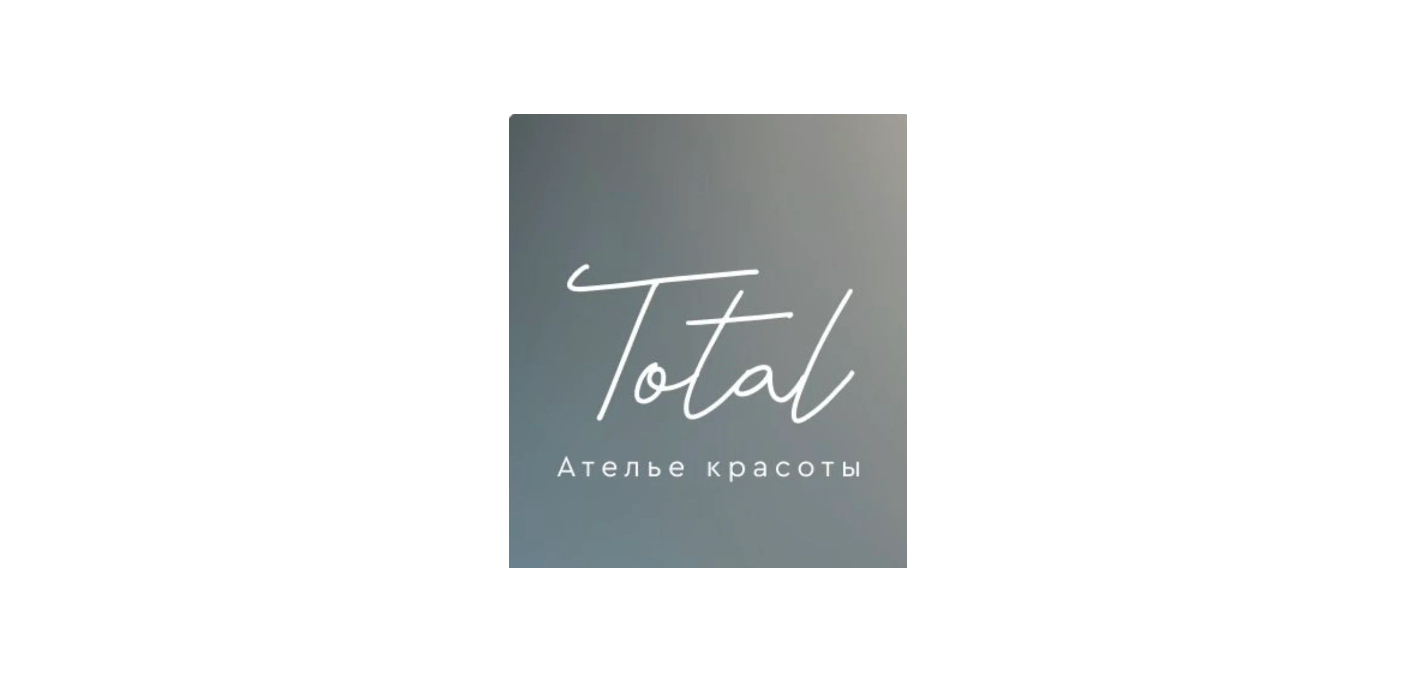
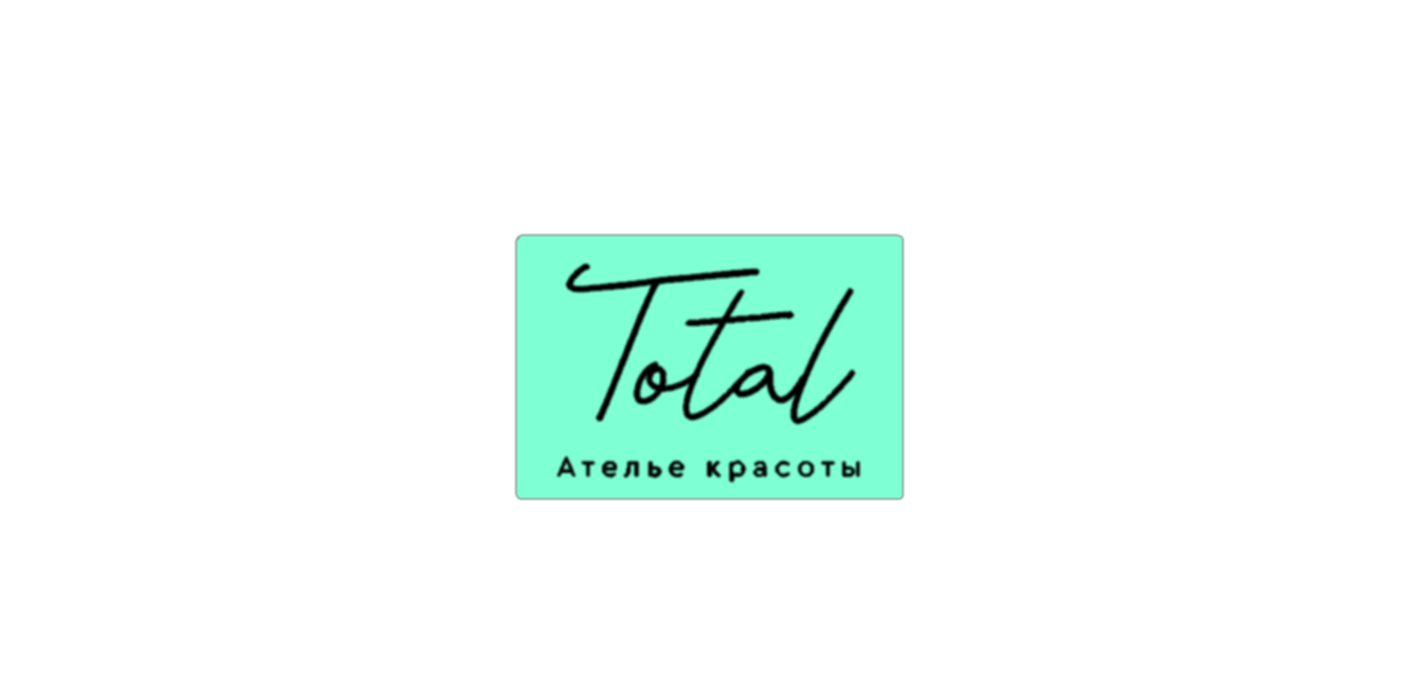
DataContext, Material desing

Changed region(s): [[0.3418, 0.154, 0.6525, 0.8314]]

diff --git a/MVVM/View/MainWindow.xaml b/MVVM/View/MainWindow.xaml
@@ -2,103 +2,108 @@
     x:Class="TotalApp.MVVM.View.MainWindow"
     xmlns="http://schemas.microsoft.com/winfx/2006/xaml/presentation"
     xmlns:x="http://schemas.microsoft.com/winfx/2006/xaml"
+    xmlns:c1="http://schemas.componentone.com/winfx/2006/xaml"
+    xmlns:cmd="clr-namespace:TotalApp.Infrastructure.Commands.ButtonCommand"
     xmlns:d="http://schemas.microsoft.com/expression/blend/2008"
     xmlns:local="clr-namespace:TotalApp"
     xmlns:materialDesign="http://materialdesigninxaml.net/winfx/xaml/themes"
     xmlns:mc="http://schemas.openxmlformats.org/markup-compatibility/2006"
     xmlns:st="clr-namespace:TotalApp.Resource.Dict"
+    xmlns:vm="clr-namespace:TotalApp.MVVM.ViewModel"
     Width="1300"
+    Height="800"
     AllowsTransparency="True"
     Background="{x:Null}"
     ResizeMode="NoResize"
     WindowStartupLocation="CenterScreen"
     WindowStyle="None">
 
+    <Window.DataContext>
+        <vm:MainViewModel />
+    </Window.DataContext>
+
     <Window.Resources>
         <ResourceDictionary Source="/Resource/Dict.xaml" />
     </Window.Resources>
 
-    <Grid Style="{DynamicResource MaterialDesignGrid}">
-        <materialDesign:Card Margin="10" UniformCornerRadius="15">
+    <Grid Background="{x:Null}" Style="{DynamicResource MaterialDesignGrid}">
+        <materialDesign:Card
+            Margin="10"
+            Background="{x:Null}"
+            UniformCornerRadius="15">
             <Grid>
                 <Grid.ColumnDefinitions>
-                    <ColumnDefinition Width="1*" />
+                    <ColumnDefinition Width="100" />
                     <ColumnDefinition Width="15*" />
                 </Grid.ColumnDefinitions>
+                <Grid.RowDefinitions>
+                    <RowDefinition Height="25" />
+                    <RowDefinition />
+
+                </Grid.RowDefinitions>
                 <Grid.Resources>
                     <Style TargetType="materialDesign:PackIcon">
-                        <Setter Property="Width" Value="30" />
-                        <Setter Property="Height" Value="30" />
+                        <Setter Property="Width" Value="40" />
+                        <Setter Property="Height" Value="40" />
                     </Style>
                 </Grid.Resources>
-                <Grid Grid.Column="0">
-                    <ListView Margin="0,15">
+
+                <TextBlock
+                    Grid.Row="0"
+                    Grid.Column="0"
+                    Grid.ColumnSpan="2"
+                    Background="#FF3EEDB2"
+                    FontFamily="Segoe UI Historic"
+                    FontSize="18"
+                    Text="Total"
+                    TextAlignment="Center" />
+
+                <Grid
+                    Grid.Row="1"
+                    Grid.Column="0"
+                    Background="Aquamarine">
+                    <ListView
+                        Margin="0"
+                        VerticalAlignment="Bottom"
+                        HorizontalContentAlignment="Stretch"
+                        VerticalContentAlignment="Stretch">
+
+
                         <ListViewItem Margin="0,10" HorizontalAlignment="Center">
                             <Button
                                 HorizontalAlignment="Left"
-                                Background="{x:Null}"
+                                Background="#FF3EEDB2"
                                 BorderBrush="{x:Null}"
                                 Foreground="Black"
-                                Style="{StaticResource MaterialDesignFloatingActionButton}">
-                                <StackPanel Margin="-5">
-                                    <materialDesign:PackIcon Kind="Resistor" />
-                                </StackPanel>
+                                Style="{StaticResource MaterialDesignFloatingActionButton}"
+                                ToolTip="Краски">
+                                <Button.Content>
+                                    <StackPanel Margin="-5">
+                                        <materialDesign:PackIcon
+                                            HorizontalAlignment="Center"
+                                            VerticalAlignment="Center"
+                                            HorizontalContentAlignment="Center"
+                                            VerticalContentAlignment="Center"
+                                            Kind="FormatColorFill" />
+                                    </StackPanel>
+                                </Button.Content>
+
                             </Button>
                         </ListViewItem>
-                        <ListViewItem Margin="0" HorizontalAlignment="Center">
-                            <Button
-                                HorizontalAlignment="Left"
-                                Background="{x:Null}"
-                                BorderBrush="{x:Null}"
-                                Foreground="Black"
-                                Style="{StaticResource MaterialDesignFloatingActionButton}">
-                                <StackPanel Margin="-5">
-                                    <materialDesign:PackIcon Kind="CircleSlice6" />
-                                </StackPanel>
-                            </Button>
-                        </ListViewItem>
-                        <ListViewItem Margin="0,10" HorizontalAlignment="Center">
-                            <Button
-                                HorizontalAlignment="Left"
-                                Background="{x:Null}"
-                                BorderBrush="{x:Null}"
-                                Foreground="Black"
-                                Style="{StaticResource MaterialDesignFloatingActionButton}">
-                                <StackPanel Margin="-5">
-                                    <materialDesign:PackIcon Kind="CalendarBlankOutline" />
-                                </StackPanel>
-                            </Button>
-                        </ListViewItem>
-                        <ListViewItem Margin="0" HorizontalAlignment="Center">
-                            <Button
-                                HorizontalAlignment="Left"
-                                Background="{x:Null}"
-                                BorderBrush="{x:Null}"
-                                Foreground="Black"
-                                Style="{StaticResource MaterialDesignFloatingActionButton}">
-                                <StackPanel Margin="-5">
-                                    <materialDesign:PackIcon Kind="EqualiserVertical" />
-                                </StackPanel>
-                            </Button>
-                        </ListViewItem>
-                        <ListViewItem Margin="0,10" HorizontalAlignment="Center">
-                            <Button
-                                HorizontalAlignment="Left"
-                                Background="{x:Null}"
-                                BorderBrush="{x:Null}"
-                                Foreground="Black"
-                                Style="{StaticResource MaterialDesignFloatingActionButton}">
-                                <StackPanel Margin="-5">
-                                    <materialDesign:PackIcon Kind="ChatOutline" />
-                                </StackPanel>
-                            </Button>
-                        </ListViewItem>
-                        <ListViewItem Margin="0,60,0,0" HorizontalAlignment="Center">
+
+                        <ListViewItem
+                            Margin="0,175,0,0"
+                            HorizontalAlignment="Center"
+                            VerticalAlignment="Top"
+                            HorizontalContentAlignment="Center"
+                            VerticalContentAlignment="Top"
+                            ToolTip="Выход">
                             <Button
                                 x:Name="btnExit"
                                 HorizontalAlignment="Left"
-                                Background="{x:Null}"
+                                Background="#FF3EEDB2"
                                 BorderBrush="{x:Null}"
+                                Command="{Binding cmd.CloseCommand}"
                                 Foreground="Black"
                                 Style="{StaticResource MaterialDesignFloatingActionButton}">
                                 <StackPanel Margin="-5">
@@ -110,8 +115,35 @@
                 </Grid>
                 <Grid
                     Name="RenderPages"
+                    Grid.Row="1"
                     Grid.Column="1"
-                    Background="#F6F5F8" />
+                    Background="#F6F5F8">
+                    <Grid.ColumnDefinitions>
+                        <ColumnDefinition Width="400" />
+                        <ColumnDefinition />
+                    </Grid.ColumnDefinitions>
+
+                    <Frame x:Name="myFrame">
+                        <Frame.Content>
+                            <Page x:Name="Paints">
+                                <Page.Content>
+                                    <DataGrid
+                                        x:Name="TablePaint"
+                                        Grid.Column="0"
+                                        HorizontalContentAlignment="Stretch"
+                                        VerticalContentAlignment="Stretch"
+                                        FontSize="18">
+                                        <DataGrid.Columns>
+                                            <DataGridTextColumn CanUserResize="False" Header="ID" />
+                                            <DataGridTextColumn Header="Марка" />
+                                            <DataGridTextColumn Header="Остаток" />
+                                        </DataGrid.Columns>
+                                    </DataGrid>
+                                </Page.Content>
+                            </Page>
+                        </Frame.Content>
+                    </Frame>
+                </Grid>
             </Grid>
         </materialDesign:Card>
     </Grid>

diff --git a/Infrastructure/Commands/ButtonCommand/ButtonsCmd.cs b/Infrastructure/Commands/ButtonCommand/ButtonsCmd.cs
@@ -1,0 +1,49 @@
+using Newtonsoft.Json;
+using System.Collections.ObjectModel;
+using System.IO;
+using System.Text;
+using System.Windows;
+using System.Windows.Input;
+using TotalApp.Data.Types;
+using TotalApp.MVVM.Model;
+
+namespace TotalApp.Infrastructure.Commands.ButtonCommand
+{
+    public class ButtonsCmd
+    {
+        public ButtonsCmd()
+        {
+            CloseCommand = new LambdaCommand(OnCloseCommand, CanCloseCommand);
+        }
+
+        public ICommand CloseCommand { get; }
+        private bool CanCloseCommand(object p)
+        {
+            return true;
+        }
+
+        private void OnCloseCommand(object p)
+        {
+            Application.Current.MainWindow.Close();
+        }
+
+        public ICommand LoadDataCommand { get; }
+        private bool CanLoadDataCommand(object p)
+        {
+            return true;
+        }
+
+        private void OnLoadDataCommand(object p)
+        {
+            string path = Application.Current.StartupUri.AbsolutePath;
+            path += "//Data//st.json";
+
+            string buff = File.ReadAllText(path, Encoding.UTF8);
+
+            MyData.paints = JsonConvert.DeserializeObject<ObservableCollection<RootModel>>(buff);
+
+
+
+        }
+    }
+}

diff --git a/MVVM/ViewModel/MainViewModel.cs b/MVVM/ViewModel/MainViewModel.cs
@@ -1,8 +1,9 @@
-using TotalApp.MVVM.Base;
+using TotalApp.Infrastructure.Commands.ButtonCommand;
+using TotalApp.MVVM.Base;
 
 namespace TotalApp.MVVM.ViewModel
 {
-    internal class MainViewModel : NotifyProperty
+    public class MainViewModel : NotifyProperty
     {
         private bool _FrameVis;
         private readonly bool _StackVis;
@@ -11,6 +12,12 @@ namespace TotalApp.MVVM.ViewModel
         {
             get => _FrameVis;
             set => Set(ref _FrameVis, value);
+        }
+        public ButtonsCmd cmd { get; set; }
+
+        public MainViewModel()
+        {
+            cmd = new ButtonsCmd();
         }
     }
 }

diff --git a/Data/Types/MyData.cs b/Data/Types/MyData.cs
@@ -1,0 +1,11 @@
+using System.Collections.ObjectModel;
+using TotalApp.MVVM.Model;
+
+namespace TotalApp.Data.Types
+{
+    public static class MyData
+    {
+        public static ObservableCollection<RootModel> paints { get; set; } = new ObservableCollection<RootModel>();
+
+    }
+}

diff --git a/MVVM/View/MainWindow.xaml.cs b/MVVM/View/MainWindow.xaml.cs
@@ -1,5 +1,4 @@
-using System;
-using System.Windows;
+using System.Windows;
 
 namespace TotalApp.MVVM.View
 {
